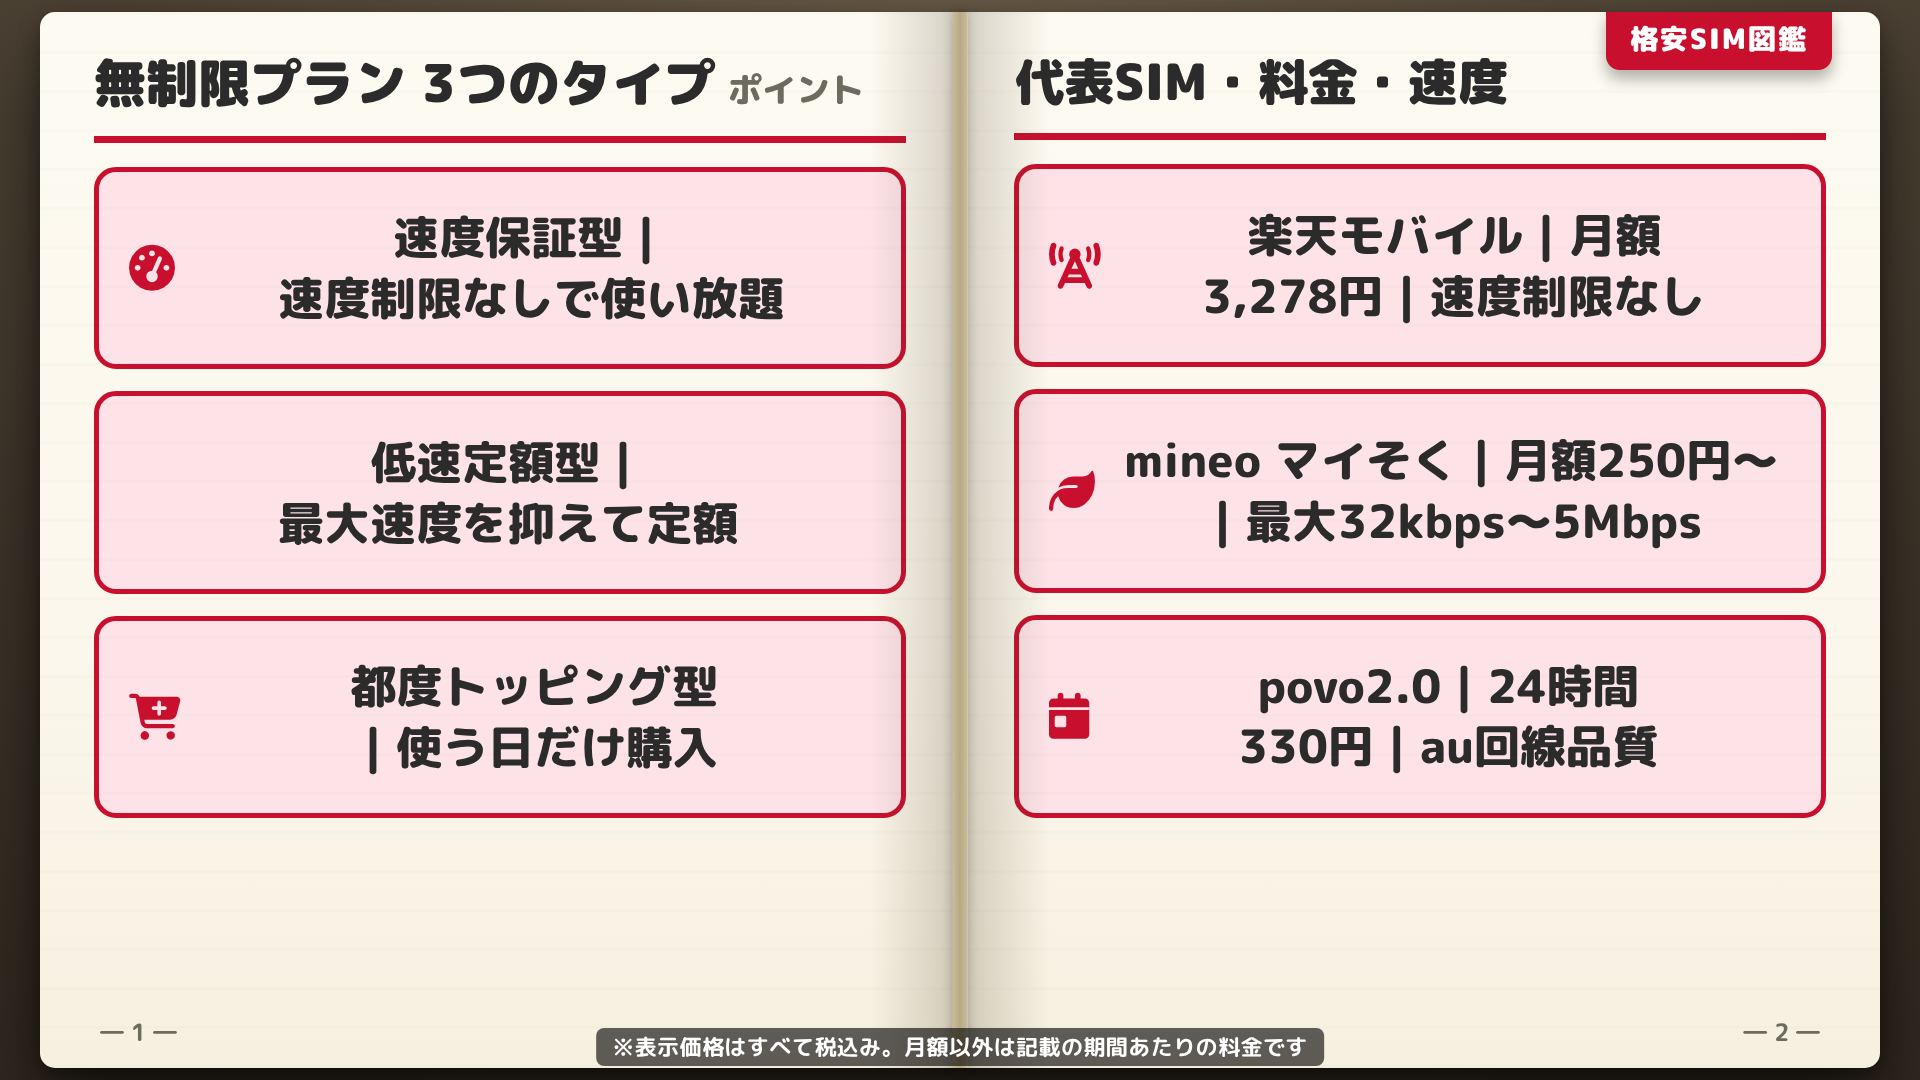
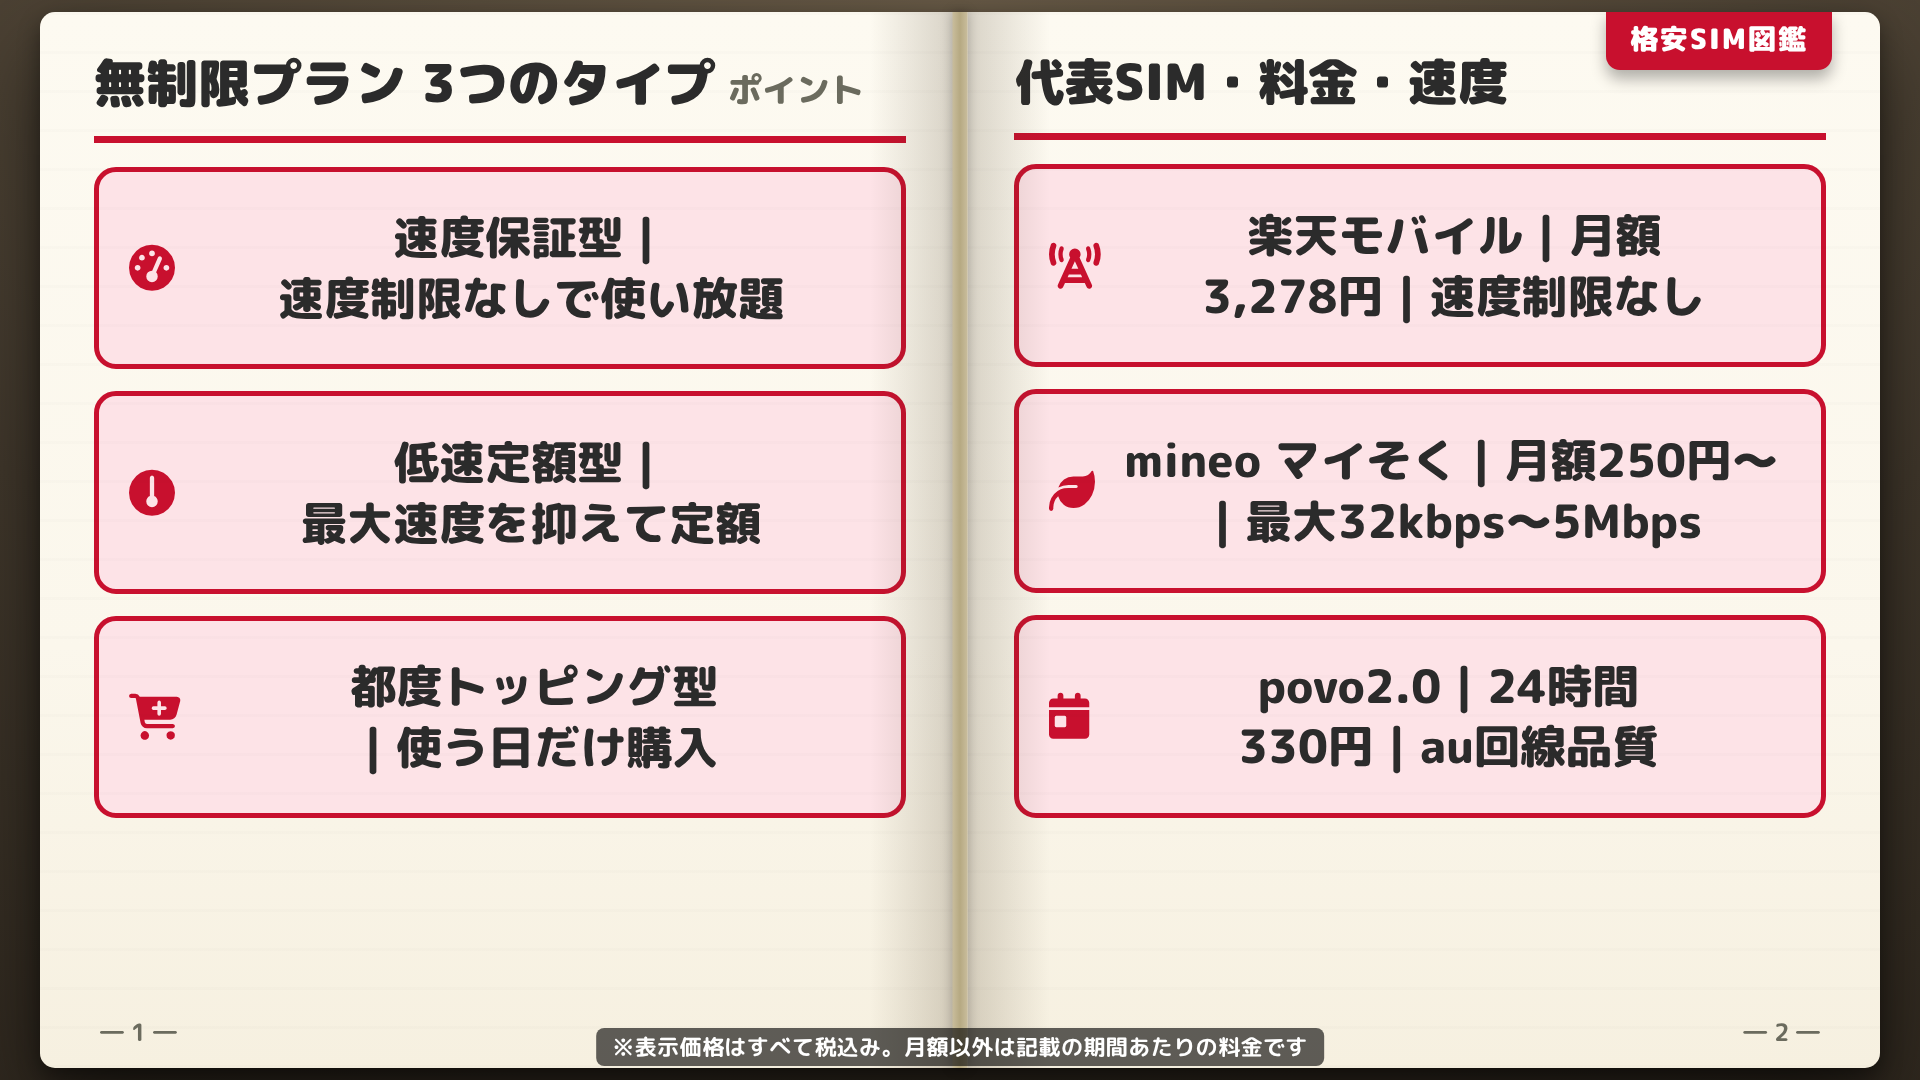
Slide 4-1 のアイコン欠けを修正（fa-gauge-simple-low は Free に無い）
fa-gauge-simple-low は Font Awesome Pro 限定で、6.5.0 Free の CSS には
定義が無い。クラスが未定義だと ::before の content が空になり、
エラーも出ずアイコンだけが消える。Free に存在する fa-gauge-simple へ差し替え
（上段の fa-gauge-high と針の位置で速度差が読み取れる）。

使用中の20種を CDN の CSS と突き合わせて検証し、未定義はこの1件のみと確認。

Claude-Session: https://claude.ai/code/session_01Rbi2ZYC7BWooGwjg1ZSXvs

Changed region(s): [[0.125, 0.3972, 0.4062, 0.5194], [0.0625, 0.4278, 0.0938, 0.4889]]

diff --git a/slides.html b/slides.html
@@ -506,7 +506,7 @@
             </div>
             <div class="emph feature-emph">
               <i
-                class="fa-solid fa-gauge-simple-low"
+                class="fa-solid fa-gauge-simple"
                 style="color: var(--brand); margin-right: 16px"
               ></i
               >低速定額型｜最大速度を抑えて定額
